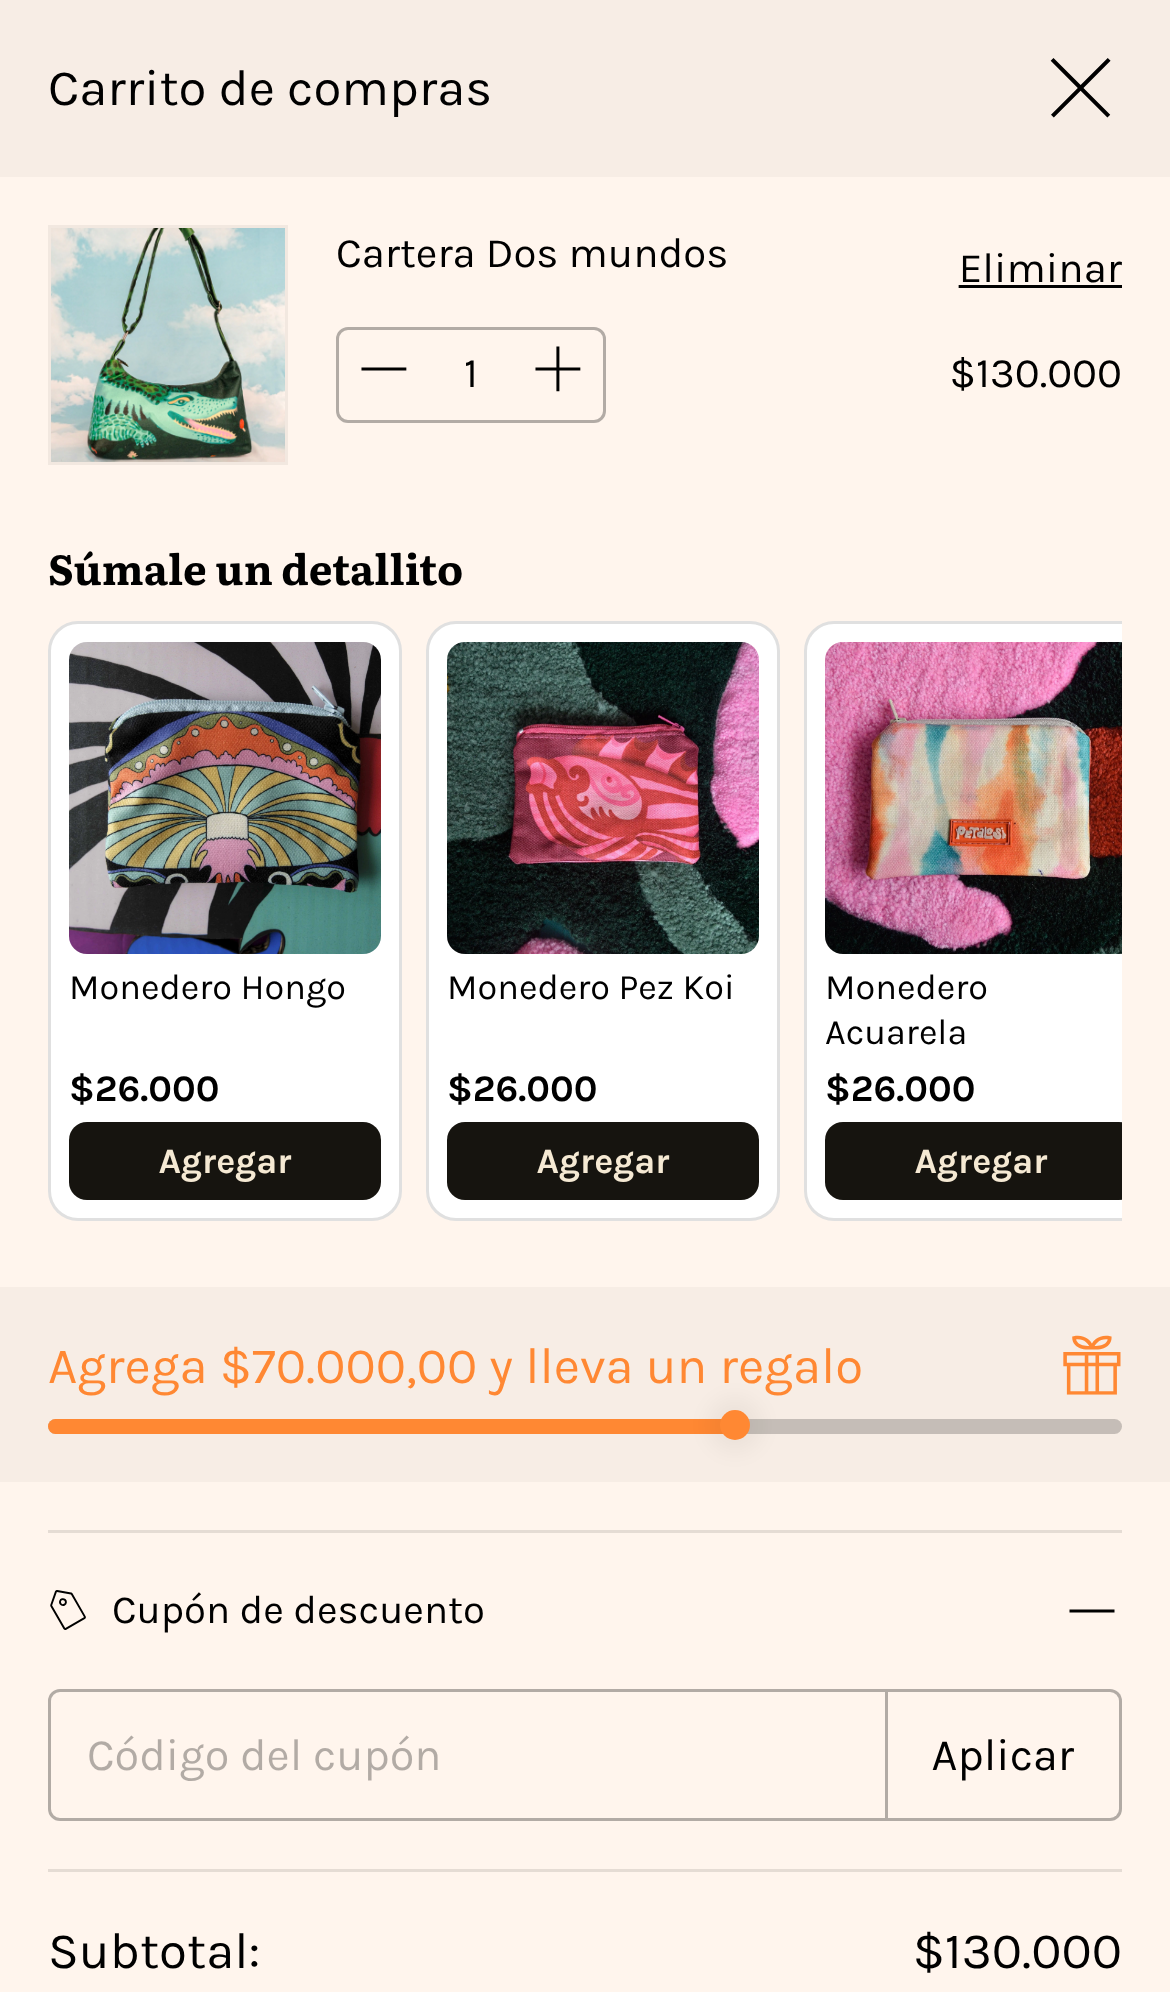
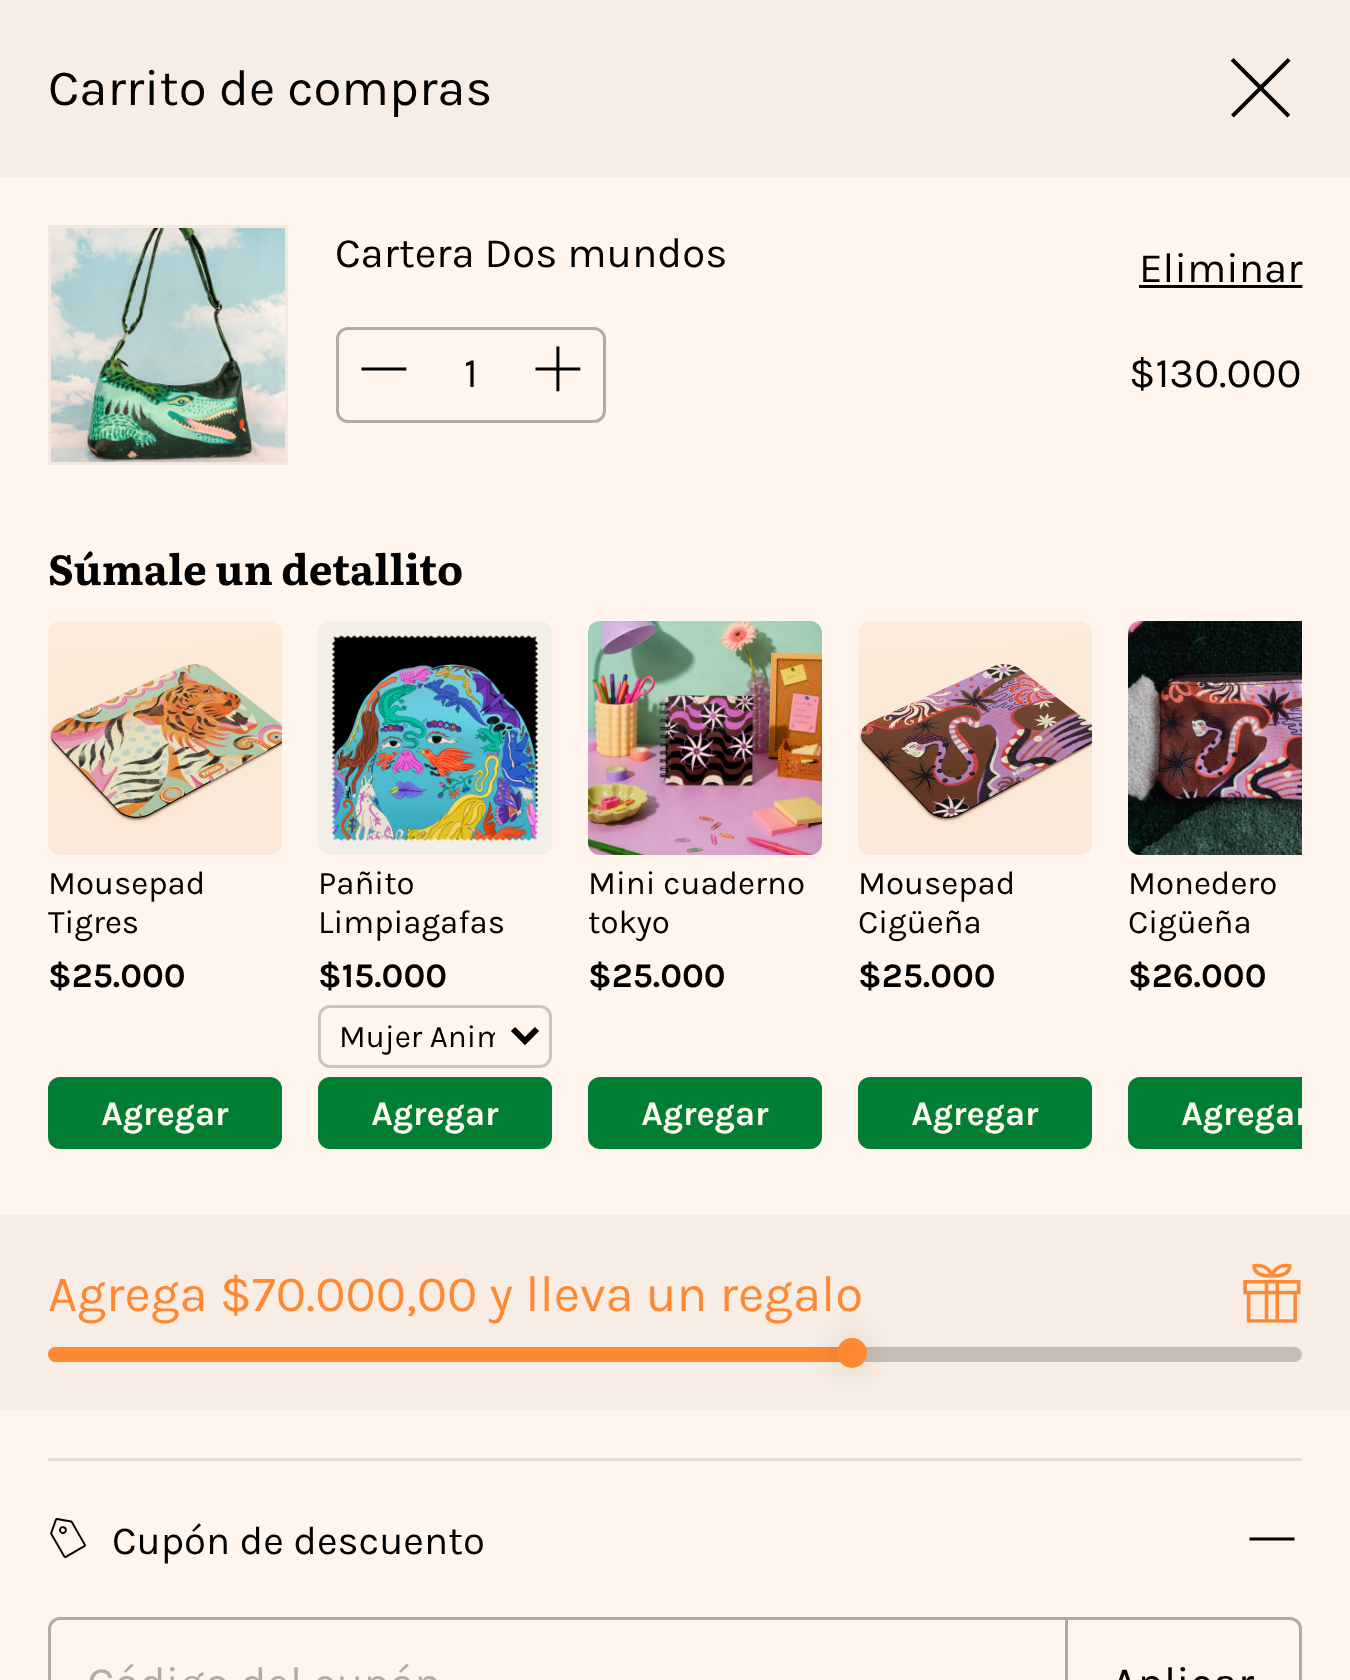
Recommendations: match cart photo size, no card background, green add button, hide on empty cart
Claude-Session: https://claude.ai/code/session_01RvAUu7xaZJgg2t8rhwdkvy

diff --git a/tiendanube/recomendados-carrito/gtm-etiqueta.html b/tiendanube/recomendados-carrito/gtm-etiqueta.html
@@ -66,15 +66,16 @@
   // ---------- 2. Dibujar las tarjetas ----------
   var css = document.createElement('style');
   css.textContent =
-    '#petalosi-reco{margin:4px 0 16px;}' +
+    // --pr-w = ancho de la foto de los productos del carrito (se mide en vivo; 78px en celular).
+    '#petalosi-reco{--pr-w:78px;margin:4px 0 16px;}' +
     '#petalosi-reco h4{margin:0 0 8px;font-size:14px;font-weight:600;}' +
-    '#petalosi-reco .pr-fila{display:flex;gap:8px;overflow-x:auto;padding-bottom:6px;scroll-snap-type:x mandatory;-webkit-overflow-scrolling:touch;}' +
-    '#petalosi-reco .pr-card{flex:0 0 118px;scroll-snap-align:start;display:flex;flex-direction:column;gap:4px;padding:6px;border:1px solid rgba(0,0,0,.12);border-radius:10px;background:#fff;box-sizing:border-box;}' +
-    '#petalosi-reco .pr-img{display:block;width:100%;aspect-ratio:1/1;object-fit:cover;border-radius:6px;background:#f3eee6;}' +
-    '#petalosi-reco .pr-nombre{font-size:12px;line-height:1.25;color:inherit;text-decoration:none;display:-webkit-box;-webkit-line-clamp:2;-webkit-box-orient:vertical;overflow:hidden;min-height:30px;}' +
-    '#petalosi-reco .pr-precio{font-size:12.5px;font-weight:700;}' +
-    '#petalosi-reco select{width:100%;font-family:inherit;font-size:11.5px;padding:3px 4px;border:1px solid rgba(0,0,0,.2);border-radius:6px;background:#fff;}' +
-    '#petalosi-reco button{margin-top:auto;width:100%;padding:6px 4px;font-family:inherit;font-size:12px;font-weight:600;border:0;border-radius:6px;background:#16140F;color:#F5E9D3;cursor:pointer;}' +
+    '#petalosi-reco .pr-fila{display:flex;gap:12px;overflow-x:auto;padding-bottom:6px;scroll-snap-type:x mandatory;-webkit-overflow-scrolling:touch;}' +
+    '#petalosi-reco .pr-card{flex:0 0 var(--pr-w);width:var(--pr-w);scroll-snap-align:start;display:flex;flex-direction:column;gap:3px;}' +
+    '#petalosi-reco .pr-img{display:block;width:var(--pr-w);height:var(--pr-w);object-fit:cover;border-radius:4px;background:#f3eee6;}' +
+    '#petalosi-reco .pr-nombre{font-size:11px;line-height:1.25;color:inherit;text-decoration:none;display:-webkit-box;-webkit-line-clamp:2;-webkit-box-orient:vertical;overflow:hidden;min-height:27px;}' +
+    '#petalosi-reco .pr-precio{font-size:11.5px;font-weight:700;}' +
+    '#petalosi-reco select{width:100%;font-family:inherit;font-size:10.5px;padding:2px;border:1px solid rgba(0,0,0,.2);border-radius:4px;background:transparent;color:inherit;}' +
+    '#petalosi-reco button{margin-top:auto;width:100%;padding:5px 2px;font-family:inherit;font-size:11.5px;font-weight:600;border:0;border-radius:4px;background:#007E33;color:#FFFAF0;cursor:pointer;}' +
     '#petalosi-reco button[disabled]{opacity:.6;cursor:default;}';
   document.head.appendChild(css);
 
@@ -95,6 +96,8 @@
     if (!productos) return;
     var ya = enCarrito();
     var lista = productos.filter(function (p) { return !ya[p.id]; }).slice(0, MAXIMO);
+    var vacio = !((window.LS && LS.cart && LS.cart.items) || []).length;
+    if (vacio) lista = [];   // con el carrito vacío no se recomienda nada
     var firma = lista.map(function (p) { return p.id; }).join(',');
     if (firma === firmaActual) return;
     firmaActual = firma;
@@ -171,6 +174,9 @@
     var lista = document.querySelector('#modal-cart .js-ajax-cart-list');
     if (!lista || !lista.parentNode) return;
     if (lista.nextSibling !== caja) lista.parentNode.insertBefore(caja, lista.nextSibling);
+    var foto = lista.querySelector('.cart-item-image, img');
+    var w = foto ? Math.round(foto.getBoundingClientRect().width) : 0;
+    if (w >= 50 && w <= 160) caja.style.setProperty('--pr-w', w + 'px');
     pintar();
   }
   var cargado = false;
